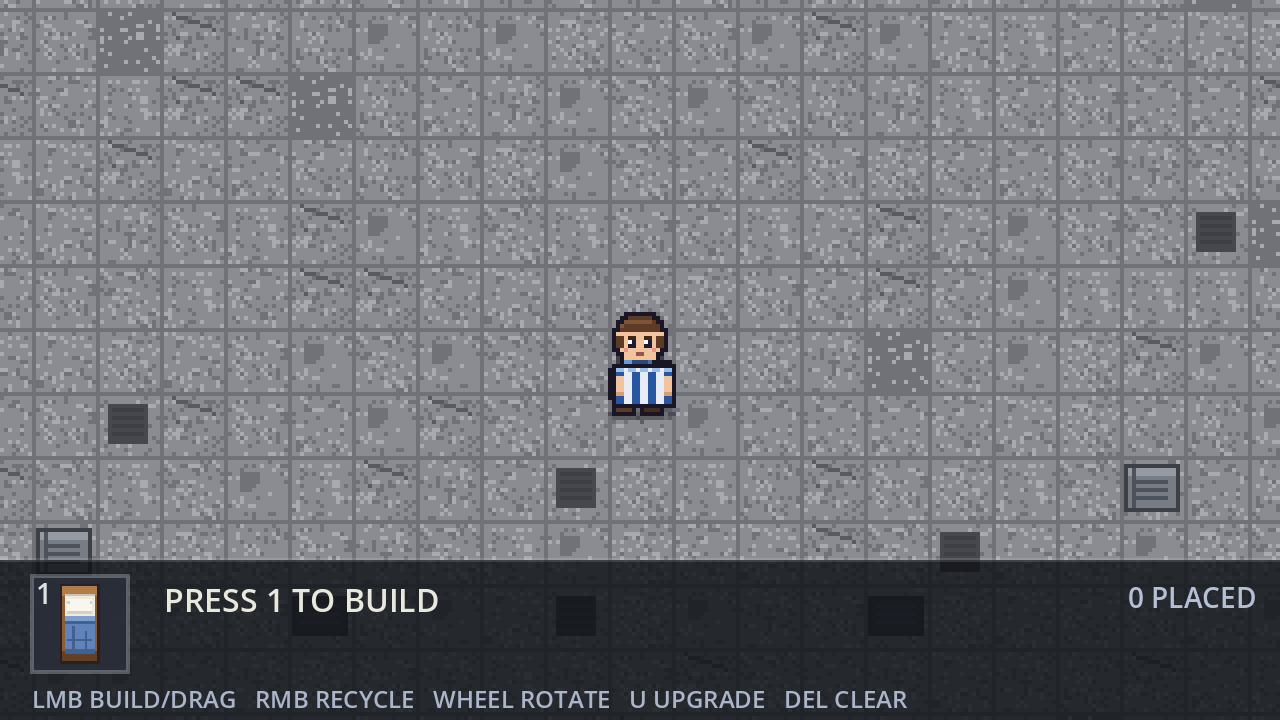
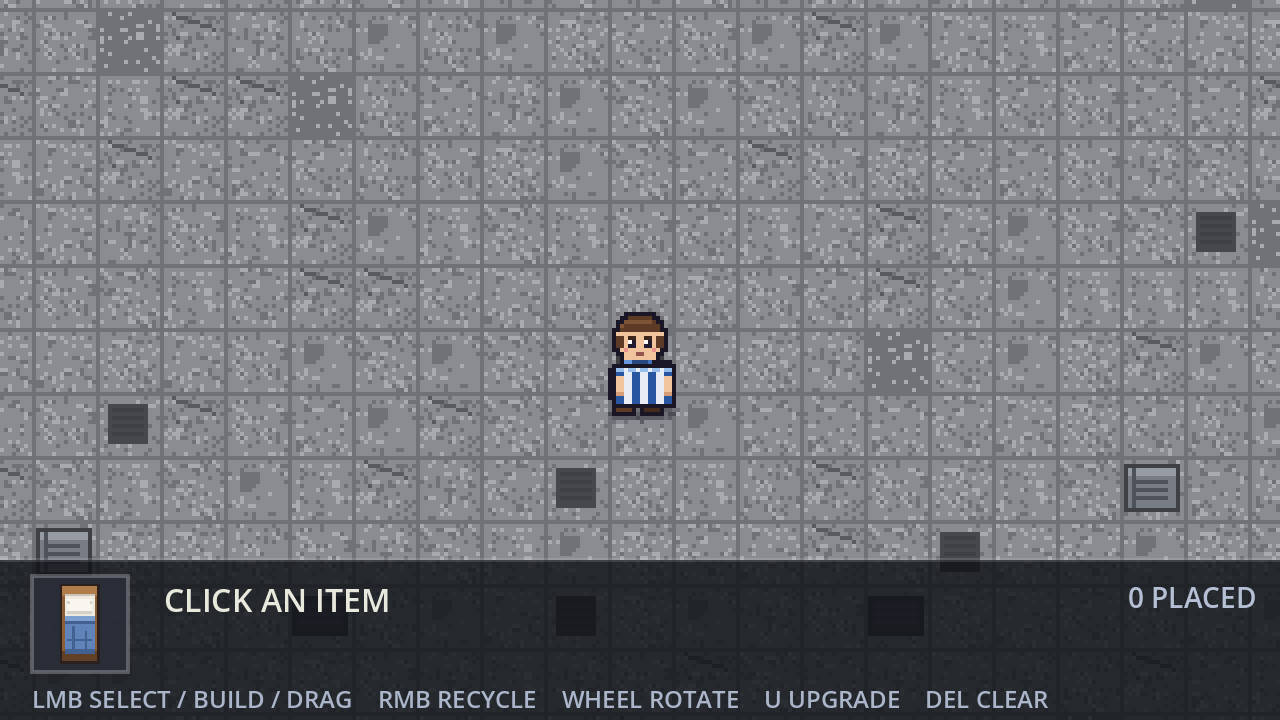
feat: 家具栏不再显示数字，改成鼠标左键点槽位选择/取消

Changed region(s): [[0.0625, 0.9472, 0.8125, 1.0], [0.125, 0.7944, 0.3438, 0.8556]]

diff --git a/README.md b/README.md
@@ -23,7 +23,7 @@
 | **按住 Tab** | 草地：暂停游戏并打开武器轮盘，鼠标指向槽位、松开装备；基地：进 / 出建造模式 |
 | **E** | 走到平台/地图边缘时：基地 → 草地，或草地 → 基地 |
 | **B** | 直接切换基地 / 草地（快捷键，不用走到边上） |
-| **1** | 基地建造模式下选择要建造的家具（目前只有床） |
+| **鼠标左键点家具栏** | 基地建造模式下选择 / 取消选择要建造的家具（数字键 1 也能选，只是界面不再显示数字） |
 | **鼠标左键** | 基地里放置家具；按住已有家具可以**拖动**换位置 |
 | **鼠标右键** | **回收**鼠标指着的那件家具，退回仓库 |
 | **鼠标滚轮** | **旋转**：指着家具就转它（90° 一档），指着空地就转下一件的朝向 |
@@ -585,9 +585,9 @@ after 3.5s-> 0 只（确认不再刷）
   **面朝上（背对镜头）时图纸抱在身前、被身体挡住，只从身体两边露出一点纸边**
   （背影帧用无手身体并清掉多余肤色，肩膀和腰带上不会有奇怪的肉色像素）；
   退出建造模式再换回空手。
-- **进建造模式不预选家具**：按 Tab 只弹出家具栏（提示 `PRESS 1 TO BUILD`），要按数字键选了某件家具
-  才会出现跟随鼠标的放置预览；**放下一件后会自动取消选中**，想继续摆要再按一次数字键；
-  选中状态下再按同一个数字键也会**取消选中**（数字键是开关）。
+- **进建造模式不预选家具**：按 Tab 只弹出家具栏（提示 `CLICK AN ITEM`），用**鼠标左键点槽位**选了某件
+  家具才会出现跟随鼠标的放置预览；**放下一件后会自动取消选中**，想继续摆要再点一次槽位；
+  选中状态下再点同一个槽位也会**取消选中**（槽位是开关）。数字键 1 仍可选，只是界面不再显示数字。
 - **按 Tab 进 / 出建造模式**：不按 Tab 时就是纯走路，底部只有一行 `TAB - BUILD` 提示；
   按 Tab 才弹出底部家具栏，此时才能选家具、放置、拆除、升级。
 - 家具数据是 `BaseFurniture` 资源（`assets/base/*.tres`）：名字、贴图、`footprint`（占地几格）、`max_level`。
@@ -603,7 +603,7 @@ after 3.5s-> 0 只（确认不再刷）
   - 右键回收，家具退回仓库（`xN` 显示在 HUD 上，初始 8 件），放置会扣 1 件；
   - 布局 + 库存都存进 `user://base_layout.json`。
 - `base_builder.gd`：
-  - **1–4** 选家具（底部 HUD 高亮），鼠标位置显示半透明预览（绿色可放、红色不可放）；
+  - 鼠标左键点底部家具栏选中（再点一次取消），鼠标位置显示半透明预览（白色可放、红色不可放）；
   - **左键**放置、**右键**拆除、**U** 升级（最高 3 级，底部小方块表示等级）；
   - 全部按 **16px 格子**对齐；鼠标在平台格子外（比如飘到外面的城市上）时预览直接隐藏，
     不会出现"摆在地图外"的假象；女儿墙 / 楼顶设备瓦片（舱口/空调/通风口）上不能放；
